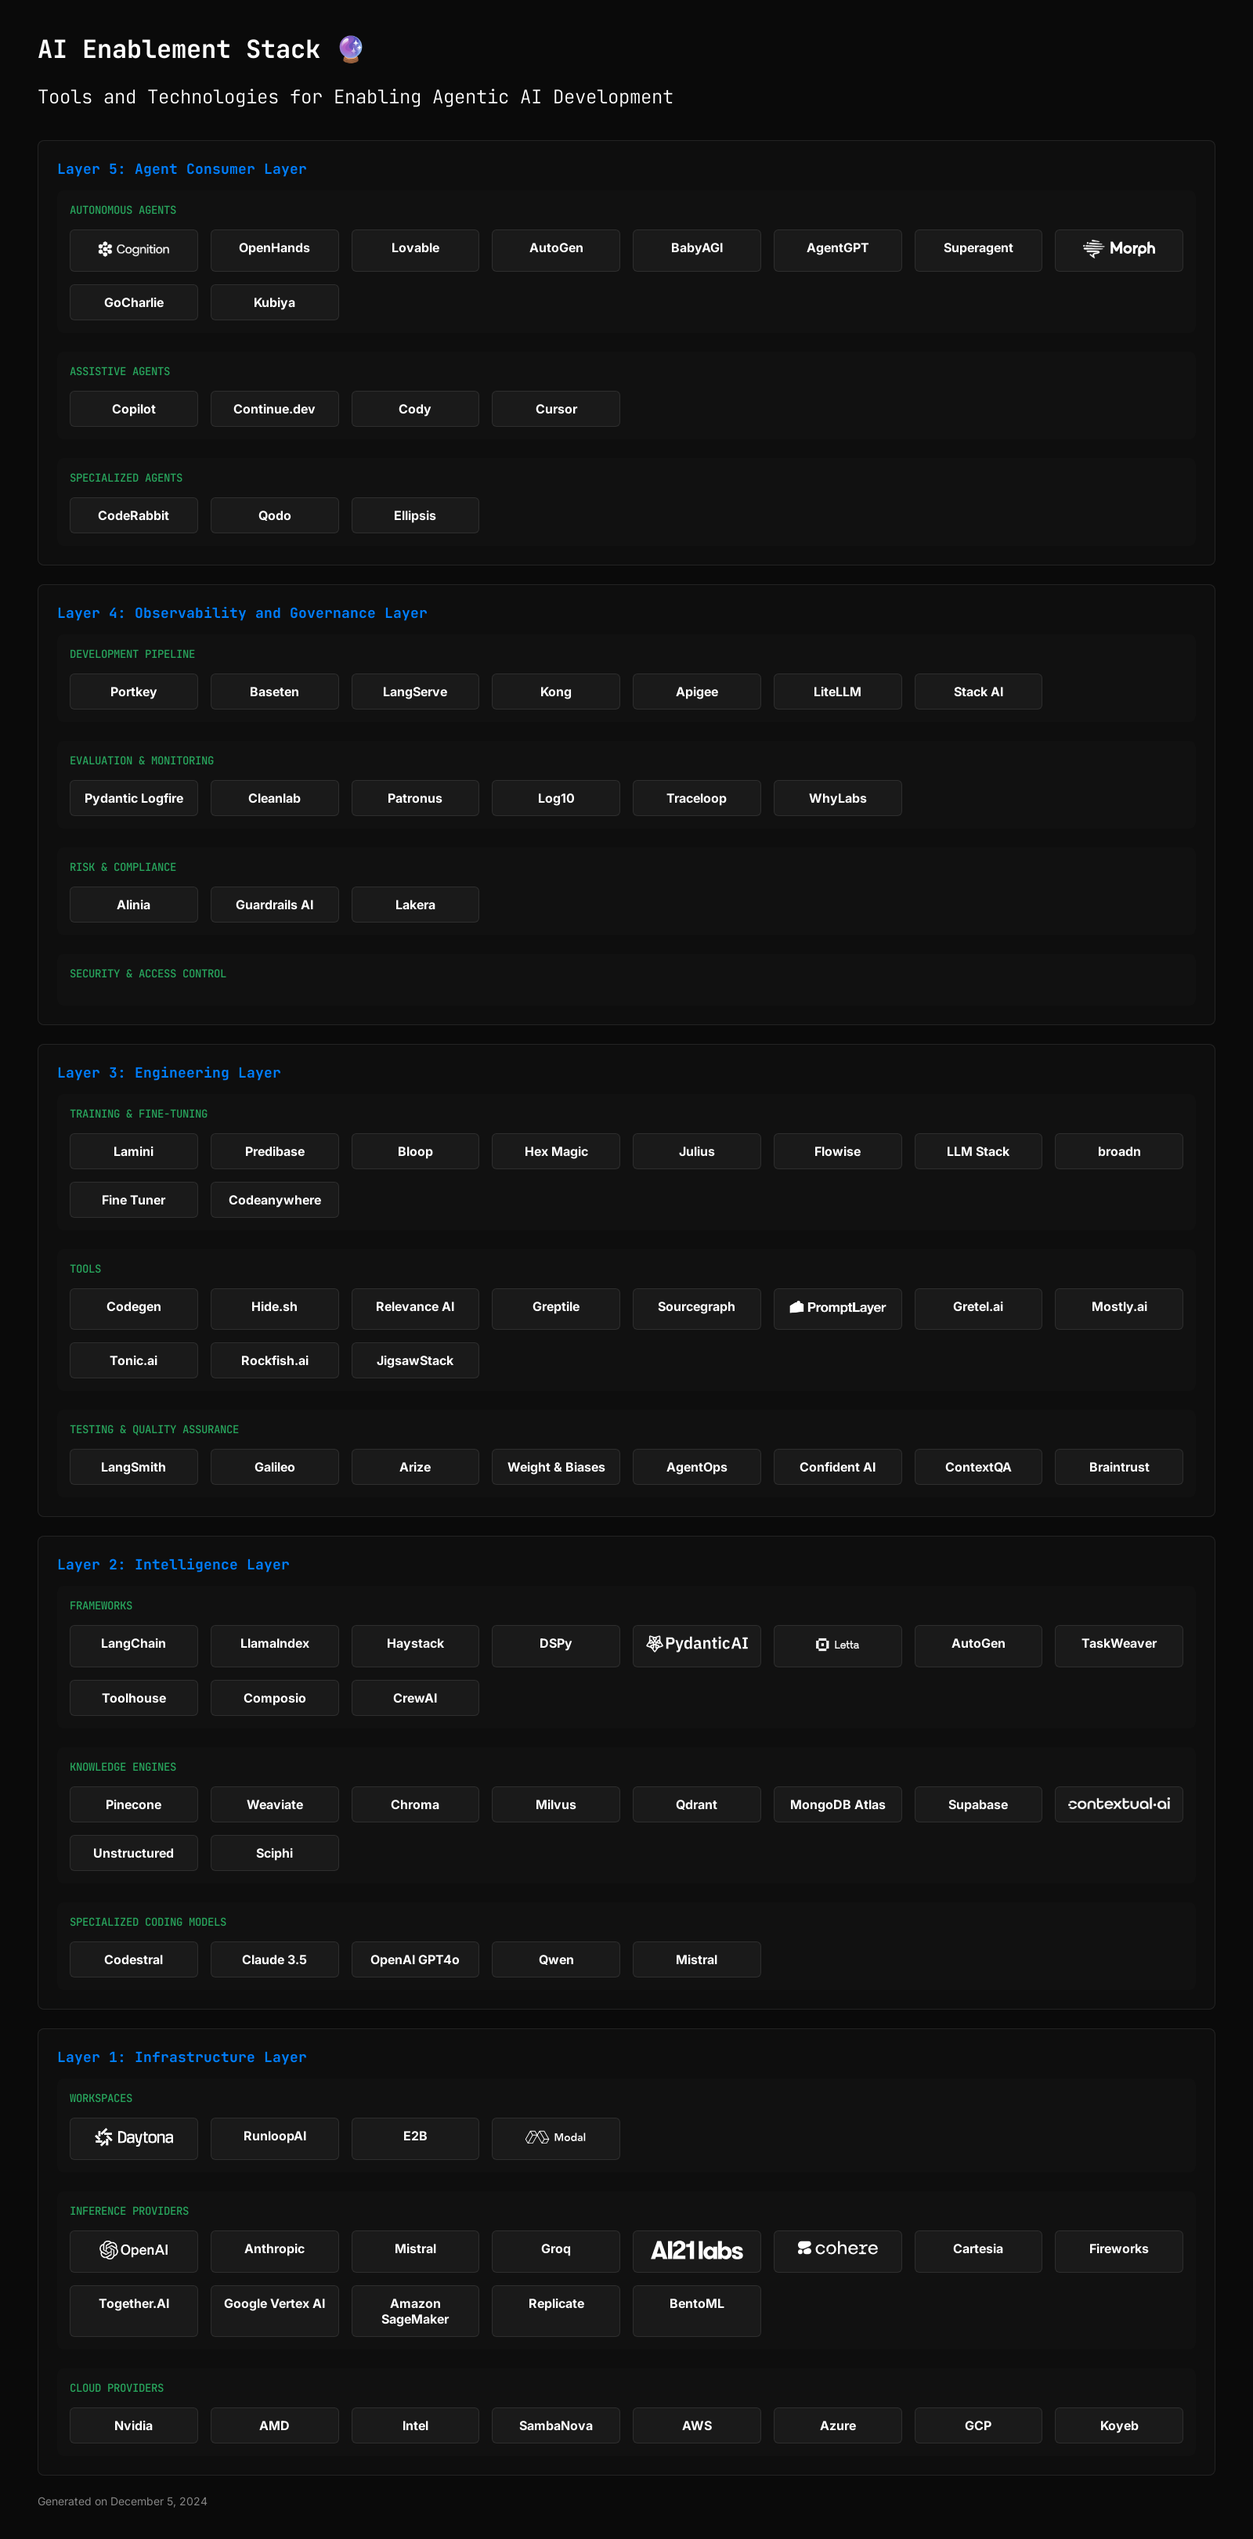
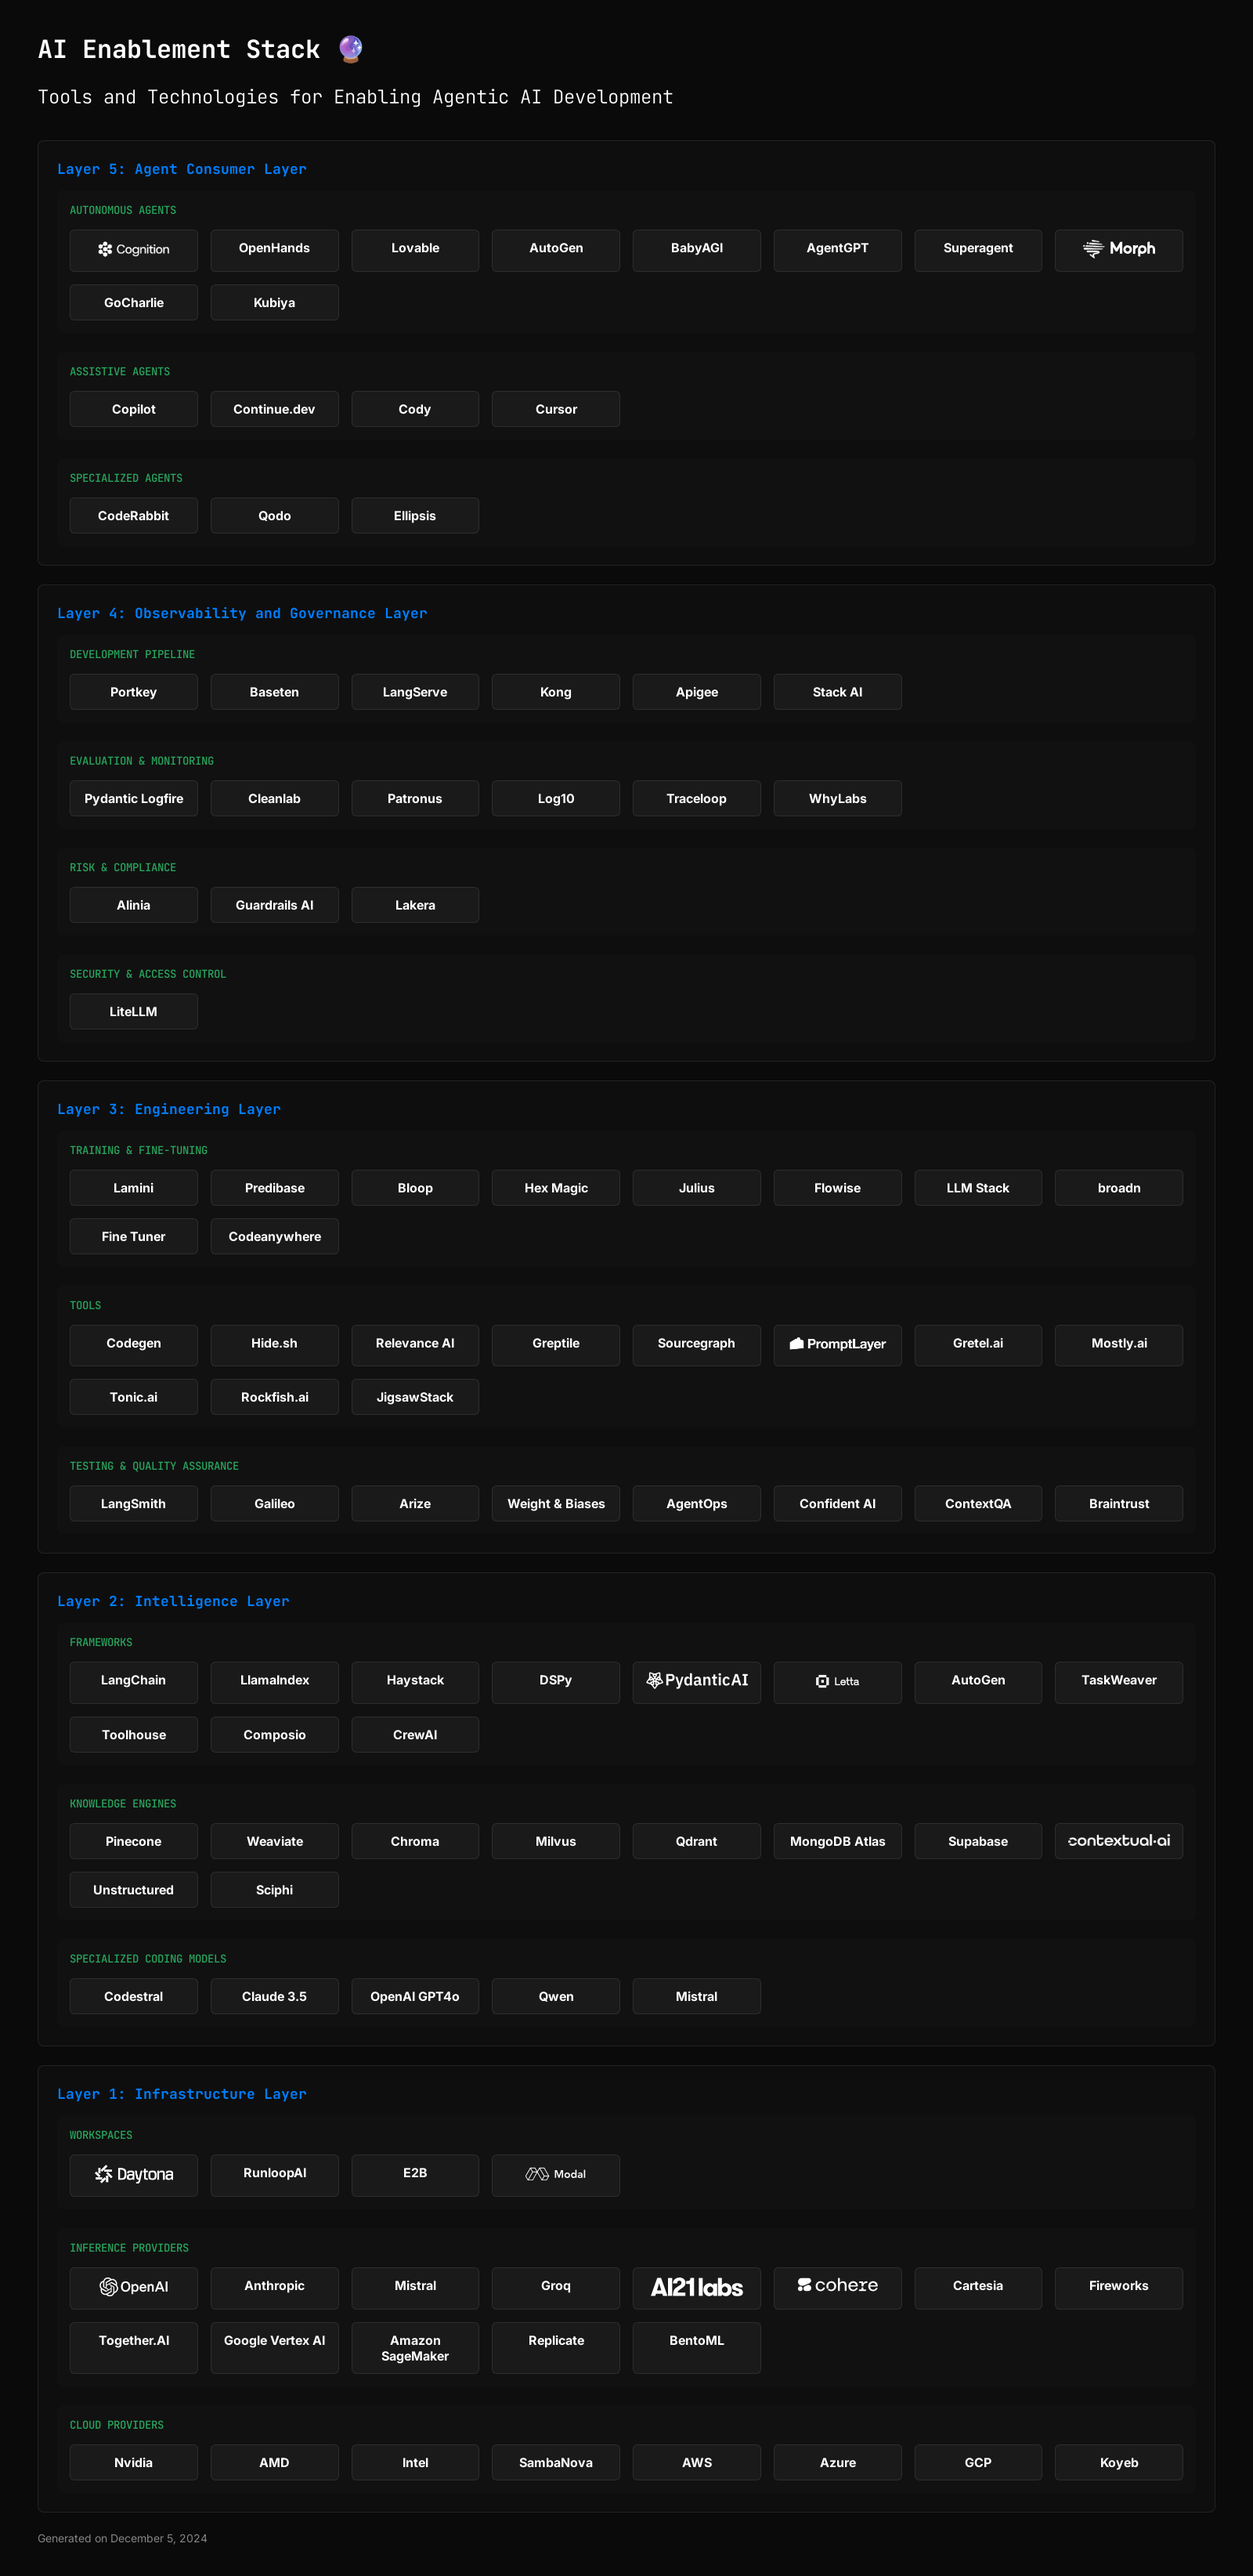
litellm switchero

diff --git a/README.md b/README.md
@@ -325,18 +325,6 @@ Observability and Governance Layer - DEVELOPMENT PIPELINE
 ##### Links
 </details>
 
-#### [LiteLLM]()
-<details>
-
-##### Category
-Observability and Governance Layer - DEVELOPMENT PIPELINE
-
-##### Description
-- No description available
-
-##### Links
-</details>
-
 #### [Stack AI](https://www.stack-ai.com/)
 <details>
 
@@ -468,6 +456,19 @@ Observability and Governance Layer - RISK & COMPLIANCE
 </details>
 
 ### SECURITY & ACCESS CONTROL
+
+#### [LiteLLM](https://litellm.ai/)
+<details>
+
+##### Category
+Observability and Governance Layer - SECURITY & ACCESS CONTROL
+
+##### Description
+LiteLLM provides a unified API gateway for managing 100+ LLM providers with OpenAI-compatible formatting, offering features like authentication, load balancing, spend tracking, and monitoring integrations, available both as an open-source solution and enterprise service.
+
+##### Links
+- [https://litellm.ai/](https://litellm.ai/)
+</details>
 
 ## Engineering Layer
 
